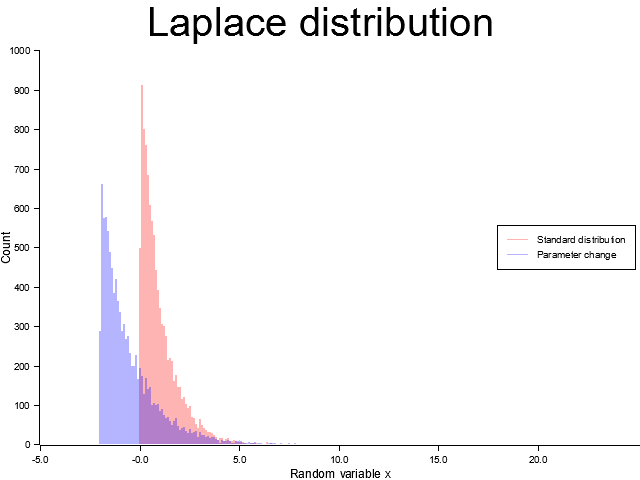
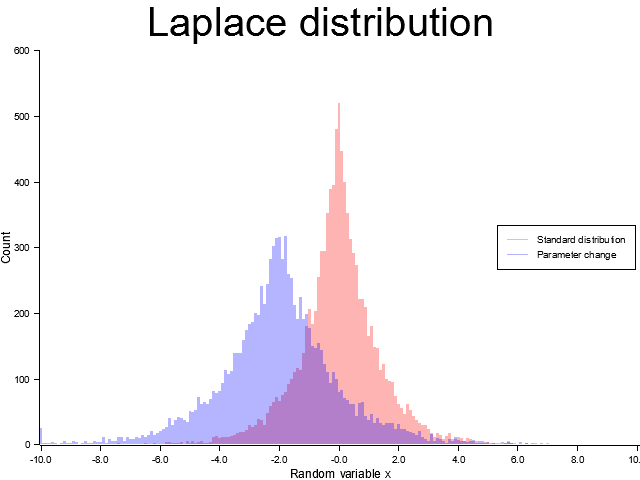
0.2.0j (使用例) 対数ラプラス分布の追加とアルゴリズムの変更

diff --git a/src/distributions/log_laplace.rs b/src/distributions/log_laplace.rs
@@ -1,25 +1,32 @@
-use crate::standard_distributions::{standard_laplace, xorshift160_0_1_open};
+use crate::standard_distributions::{standard_laplace, xorshift160_0_1_open, xorshift160_0_open_1_open};
 use crate::{create_state, LogLaplace};
 
 impl LogLaplace {
     /// コンストラクタ
     /// * `_seed` - 乱数の種
     pub fn new(_seed: u32) -> Self {
-        let mut xyzuv: [u32; 5] = create_state(_seed);
-        let u_1: f64 = xorshift160_0_1_open(&mut xyzuv);
+        //let mut xyzuv: [u32; 5] = create_state(_seed);
+        //let u_1: f64 = xorshift160_0_1_open(&mut xyzuv);
         Self {
-            xyzuv,
-            previous_uniform_1: u_1,
+            xyzuv: create_state(_seed),
+            //previous_uniform_1: u_1,
             location: 0f64,
             scale: 1f64,
         }
     }
 
-    /// 対数ラプラス分布に従う乱数を返す
+    /// 乱数を計算する
     pub fn sample(&mut self) -> f64 {
-        (standard_laplace(&mut self.xyzuv, &mut self.previous_uniform_1) * self.scale
-            + self.location)
-            .exp()
+        // アルゴリズム 3.49
+        // step 1: 標準ラプラス分布
+        // アルゴリズム 3.45
+        let u: f64 = xorshift160_0_open_1_open(&mut self.xyzuv);
+        let y = if u < 0.5_f64 {
+            (2_f64 * u).ln()
+        } else {
+            -(2_f64 * (1_f64 - u)).ln()
+        };
+        (y * self.scale + self.location).exp()
     }
 
     /// 確率変数のパラメータを変更する

diff --git a/src/lib.rs b/src/lib.rs
@@ -221,10 +221,10 @@ pub struct Exponential {
 /// println!("位置母数 μ = {}, 尺度母数 θ = {} のラプラス分布に従う乱数を生成する -> {}", location, scale, laplace.sample());
 /// ```
 pub struct Laplace {
-    xyzuv: [u32; 5],         // 状態変数
+    xyzuv: [u32; 5], // 状態変数
     //previous_uniform_1: f64, // 前回使用した一様乱数
-    location: f64,           // 位置母数
-    scale: f64,              // 尺度母数
+    location: f64, // 位置母数
+    scale: f64,    // 尺度母数
 }
 
 /// 対数ラプラス分布
@@ -240,10 +240,10 @@ pub struct Laplace {
 /// println!("位置母数 μ = {}, 尺度母数 θ = {} の対数ラプラス分布に従う乱数を生成する -> {}", location, scale, log_laplace.sample());
 /// ```
 pub struct LogLaplace {
-    xyzuv: [u32; 5],         // 状態変数
-    previous_uniform_1: f64, // 前回使用した一様乱数
-    location: f64,           // 位置母数
-    scale: f64,              // 尺度母数
+    xyzuv: [u32; 5], // 状態変数
+    //previous_uniform_1: f64, // 前回使用した一様乱数
+    location: f64, // 位置母数
+    scale: f64,    // 尺度母数
 }
 
 /// レイリー分布

diff --git a/examples/log_laplace.rs b/examples/log_laplace.rs
@@ -1,7 +1,7 @@
 use plotters::prelude::*;
 
-const FILE_NAME: &str = "examples/laplace.png";
-const CAPTION: &str = "Laplace distribution";
+const FILE_NAME: &str = "examples/log_laplace.png";
+const CAPTION: &str = "Log Laplace distribution";
 
 const QUANTITY: usize = 10_000_usize;
 
@@ -16,7 +16,7 @@ fn main() -> Result<(), Box<dyn std::error::Error>> {
         .y_label_area_size(40)
         .caption(CAPTION, ("sans-serif", 50.0))
         .build_cartesian_2d(
-            (-10_f64..10_f64).step(0.1_f64).use_round().into_segmented(),
+            (0_f64..60_f64).step(0.1_f64).use_round().into_segmented(),
             0u32..600u32,
         )?;
     // 軸の設定
@@ -32,7 +32,7 @@ fn main() -> Result<(), Box<dyn std::error::Error>> {
         .unwrap();
 
     // 乱数生成器
-    let mut generator = rand_simple::Laplace::new(1192_u32);
+    let mut generator = rand_simple::LogLaplace::new(1192_u32);
 
     // 標準分布
     println!("Initial state\n{}\n", generator);

diff --git a/src/distributions/laplace.rs b/src/distributions/laplace.rs
@@ -1,4 +1,4 @@
-use crate::standard_distributions::{standard_laplace, xorshift160_0_1_open};
+use crate::standard_distributions::{standard_laplace, xorshift160_0_open_1_open};
 use crate::{create_state, Laplace};
 
 impl Laplace {
@@ -15,9 +15,16 @@ impl Laplace {
         }
     }
 
-    /// ラプラス分布に従う乱数を返す
+    /// 乱数を計算する
     pub fn sample(&mut self) -> f64 {
-        (-1_f64 * (1_f64 - xorshift160_0_1_open(&mut self.xyzuv)).ln()) * self.scale + self.location
+        // アルゴリズム 3.45
+        let u: f64 = xorshift160_0_open_1_open(&mut self.xyzuv);
+        let y = if u < 0.5_f64 {
+            (2_f64 * u).ln()
+        } else {
+            -(2_f64 * (1_f64 - u)).ln()
+        };
+        y * self.scale + self.location
     }
 
     /// 確率変数のパラメータを変更する
